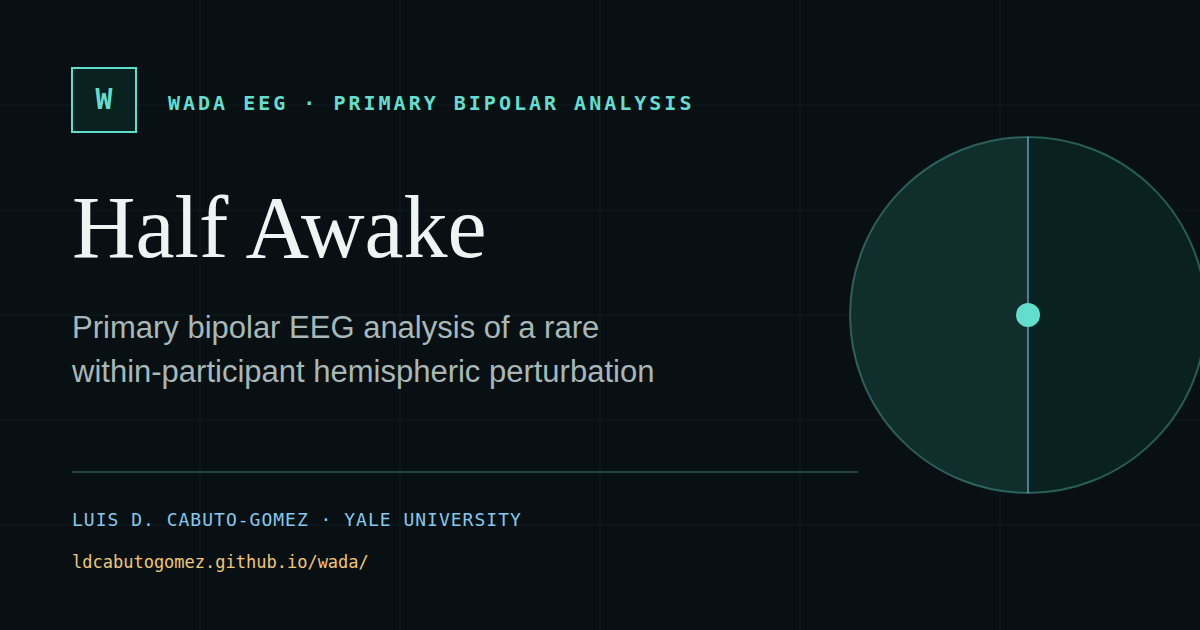
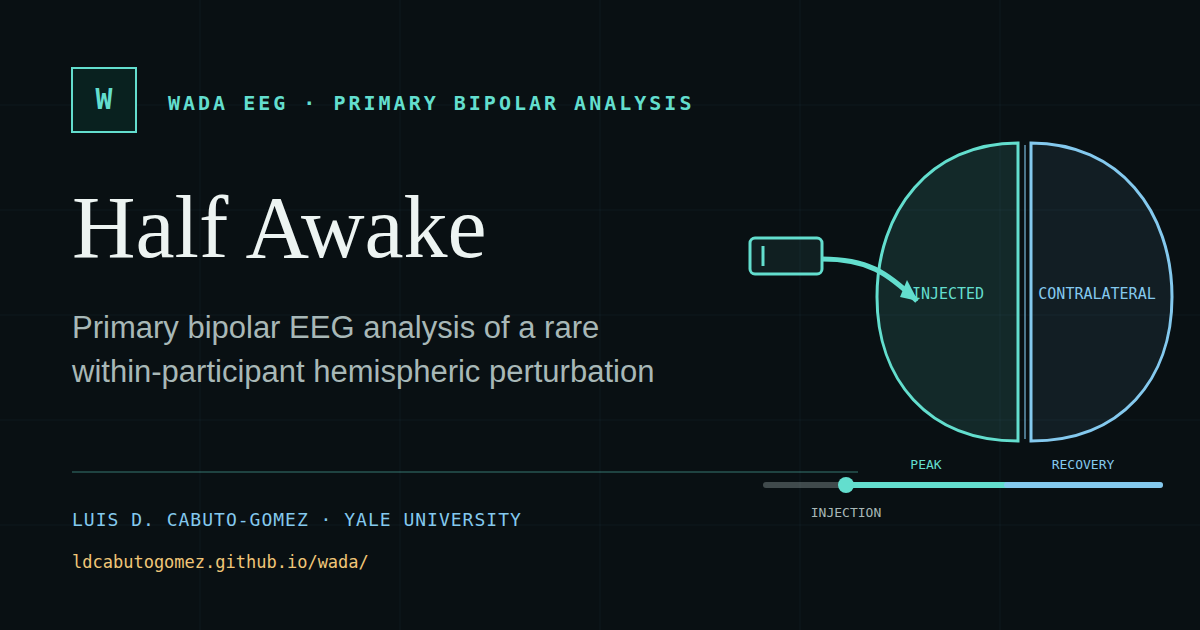
feat(wada): add accessible design schematic

diff --git a/wada/index.html b/wada/index.html
@@ -111,10 +111,58 @@
         <div class="schematic-shell" aria-labelledby="schematic-title">
           <p class="card-kicker">Study design</p>
           <h2 id="schematic-title">One injection, two simultaneous signals</h2>
-          <div class="schematic-stage-placeholder" role="img" aria-label="Design schematic pending Stage 4">
-            <span>Design schematic</span>
-            <small>Injection · injected hemisphere · contralateral hemisphere · peak · recovery</small>
-          </div>
+          <figure class="design-schematic-figure">
+            <svg class="design-schematic" viewBox="0 0 720 420" role="img" aria-labelledby="design-schematic-title design-schematic-description">
+              <title id="design-schematic-title">Within-participant Wada EEG design</title>
+              <desc id="design-schematic-description">A carotid injection points toward one injected hemisphere while the contralateral hemisphere is recorded simultaneously. A qualitative timeline marks baseline, injection, peak, and recovery windows.</desc>
+              <defs>
+                <marker id="schematic-arrow" viewBox="0 0 10 10" refX="8" refY="5" markerWidth="8" markerHeight="8" orient="auto-start-reverse">
+                  <path d="M0 0l10 5-10 5z" class="schematic-arrowhead"/>
+                </marker>
+              </defs>
+
+              <rect class="schematic-canvas" x="1" y="1" width="718" height="418" rx="20"/>
+
+              <g aria-hidden="true">
+                <g class="schematic-syringe" transform="translate(54 92) rotate(-8)">
+                  <rect x="0" y="0" width="84" height="38" rx="6"/>
+                  <line x1="18" y1="8" x2="18" y2="30"/>
+                  <line x1="84" y1="19" x2="126" y2="19"/>
+                  <line x1="-18" y1="19" x2="0" y2="19"/>
+                  <line x1="-18" y1="5" x2="-18" y2="33"/>
+                </g>
+                <path class="schematic-injection-line" d="M176 112C225 116 245 137 278 174" marker-end="url(#schematic-arrow)"/>
+
+                <path class="schematic-vessel" d="M317 238c-10-40-7-78 7-112M317 238c25-28 42-63 50-104M317 238c-35-24-58-56-70-96"/>
+                <circle class="schematic-injection-point" cx="317" cy="238" r="8"/>
+
+                <path class="schematic-hemisphere schematic-hemisphere-injected" d="M354 51c-77 0-124 61-124 139 0 72 44 128 124 128z"/>
+                <path class="schematic-hemisphere schematic-hemisphere-contralateral" d="M366 51c77 0 124 61 124 139 0 72-44 128-124 128z"/>
+                <path class="schematic-midline" d="M360 53v263"/>
+              </g>
+
+              <text class="schematic-label schematic-label-injected" x="292" y="176" text-anchor="middle">Injected</text>
+              <text class="schematic-label schematic-label-injected" x="292" y="201" text-anchor="middle">hemisphere</text>
+              <text class="schematic-label" x="428" y="176" text-anchor="middle">Contralateral</text>
+              <text class="schematic-label" x="428" y="201" text-anchor="middle">hemisphere</text>
+              <text class="schematic-kicker" x="56" y="62">CAROTID INJECTION</text>
+              <text class="schematic-kicker" x="360" y="36" text-anchor="middle">SIMULTANEOUS EEG</text>
+
+              <g class="schematic-timeline" aria-hidden="true">
+                <line class="schematic-timeline-base" x1="64" y1="359" x2="656" y2="359"/>
+                <line class="schematic-window-baseline" x1="64" y1="359" x2="226" y2="359"/>
+                <line class="schematic-window-peak" x1="226" y1="359" x2="432" y2="359"/>
+                <line class="schematic-window-recovery" x1="432" y1="359" x2="656" y2="359"/>
+                <circle class="schematic-injection-point" cx="226" cy="359" r="8"/>
+                <line class="schematic-tick" x1="226" y1="339" x2="226" y2="379"/>
+              </g>
+              <text class="schematic-timeline-label" x="64" y="397">Baseline</text>
+              <text class="schematic-timeline-label" x="226" y="329" text-anchor="middle">Injection</text>
+              <text class="schematic-timeline-label schematic-label-injected" x="329" y="397" text-anchor="middle">Peak window</text>
+              <text class="schematic-timeline-label" x="544" y="397" text-anchor="middle">Recovery window</text>
+            </svg>
+            <figcaption>One hemisphere receives the injection; both hemispheres remain in the same recording and participant-level contrast.</figcaption>
+          </figure>
         </div>
       </div>
 

diff --git a/wada/index.template.html b/wada/index.template.html
@@ -87,10 +87,58 @@
         <div class="schematic-shell" aria-labelledby="schematic-title">
           <p class="card-kicker">Study design</p>
           <h2 id="schematic-title">One injection, two simultaneous signals</h2>
-          <div class="schematic-stage-placeholder" role="img" aria-label="Design schematic pending Stage 4">
-            <span>Design schematic</span>
-            <small>Injection · injected hemisphere · contralateral hemisphere · peak · recovery</small>
-          </div>
+          <figure class="design-schematic-figure">
+            <svg class="design-schematic" viewBox="0 0 720 420" role="img" aria-labelledby="design-schematic-title design-schematic-description">
+              <title id="design-schematic-title">Within-participant Wada EEG design</title>
+              <desc id="design-schematic-description">A carotid injection points toward one injected hemisphere while the contralateral hemisphere is recorded simultaneously. A qualitative timeline marks baseline, injection, peak, and recovery windows.</desc>
+              <defs>
+                <marker id="schematic-arrow" viewBox="0 0 10 10" refX="8" refY="5" markerWidth="8" markerHeight="8" orient="auto-start-reverse">
+                  <path d="M0 0l10 5-10 5z" class="schematic-arrowhead"/>
+                </marker>
+              </defs>
+
+              <rect class="schematic-canvas" x="1" y="1" width="718" height="418" rx="20"/>
+
+              <g aria-hidden="true">
+                <g class="schematic-syringe" transform="translate(54 92) rotate(-8)">
+                  <rect x="0" y="0" width="84" height="38" rx="6"/>
+                  <line x1="18" y1="8" x2="18" y2="30"/>
+                  <line x1="84" y1="19" x2="126" y2="19"/>
+                  <line x1="-18" y1="19" x2="0" y2="19"/>
+                  <line x1="-18" y1="5" x2="-18" y2="33"/>
+                </g>
+                <path class="schematic-injection-line" d="M176 112C225 116 245 137 278 174" marker-end="url(#schematic-arrow)"/>
+
+                <path class="schematic-vessel" d="M317 238c-10-40-7-78 7-112M317 238c25-28 42-63 50-104M317 238c-35-24-58-56-70-96"/>
+                <circle class="schematic-injection-point" cx="317" cy="238" r="8"/>
+
+                <path class="schematic-hemisphere schematic-hemisphere-injected" d="M354 51c-77 0-124 61-124 139 0 72 44 128 124 128z"/>
+                <path class="schematic-hemisphere schematic-hemisphere-contralateral" d="M366 51c77 0 124 61 124 139 0 72-44 128-124 128z"/>
+                <path class="schematic-midline" d="M360 53v263"/>
+              </g>
+
+              <text class="schematic-label schematic-label-injected" x="292" y="176" text-anchor="middle">Injected</text>
+              <text class="schematic-label schematic-label-injected" x="292" y="201" text-anchor="middle">hemisphere</text>
+              <text class="schematic-label" x="428" y="176" text-anchor="middle">Contralateral</text>
+              <text class="schematic-label" x="428" y="201" text-anchor="middle">hemisphere</text>
+              <text class="schematic-kicker" x="56" y="62">CAROTID INJECTION</text>
+              <text class="schematic-kicker" x="360" y="36" text-anchor="middle">SIMULTANEOUS EEG</text>
+
+              <g class="schematic-timeline" aria-hidden="true">
+                <line class="schematic-timeline-base" x1="64" y1="359" x2="656" y2="359"/>
+                <line class="schematic-window-baseline" x1="64" y1="359" x2="226" y2="359"/>
+                <line class="schematic-window-peak" x1="226" y1="359" x2="432" y2="359"/>
+                <line class="schematic-window-recovery" x1="432" y1="359" x2="656" y2="359"/>
+                <circle class="schematic-injection-point" cx="226" cy="359" r="8"/>
+                <line class="schematic-tick" x1="226" y1="339" x2="226" y2="379"/>
+              </g>
+              <text class="schematic-timeline-label" x="64" y="397">Baseline</text>
+              <text class="schematic-timeline-label" x="226" y="329" text-anchor="middle">Injection</text>
+              <text class="schematic-timeline-label schematic-label-injected" x="329" y="397" text-anchor="middle">Peak window</text>
+              <text class="schematic-timeline-label" x="544" y="397" text-anchor="middle">Recovery window</text>
+            </svg>
+            <figcaption>One hemisphere receives the injection; both hemispheres remain in the same recording and participant-level contrast.</figcaption>
+          </figure>
         </div>
       </div>
 

diff --git a/wada/wada.css b/wada/wada.css
@@ -69,23 +69,132 @@
   font-size: clamp(1.5rem, 4vw, 2.2rem);
 }
 
-.schematic-stage-placeholder {
-  display: grid;
-  min-height: 14rem;
-  place-content: center;
-  gap: 0.55rem;
-  padding: 1rem;
-  border: 1px dashed var(--border-blue);
-  color: var(--blue);
-  background: rgba(7, 13, 16, 0.45);
-  font-family: var(--mono);
-  text-align: center;
+.design-schematic-figure {
+  --schematic-canvas: #071013;
+  --schematic-text: #edf4f2;
+  --schematic-muted: #a8b8b7;
+  --schematic-injected: #63dece;
+  --schematic-contralateral: #84c9ee;
+  --schematic-line: rgba(237, 244, 242, 0.36);
 }
 
-.schematic-stage-placeholder small {
-  max-width: 30rem;
+.design-schematic {
+  display: block;
+  width: 100%;
+  height: auto;
+  color: var(--schematic-text);
+}
+
+.schematic-canvas {
+  fill: var(--schematic-canvas);
+  stroke: var(--schematic-line);
+}
+
+.schematic-syringe {
+  fill: color-mix(in srgb, var(--schematic-injected) 14%, transparent);
+  stroke: var(--schematic-injected);
+  stroke-width: 3;
+}
+
+.schematic-injection-line,
+.schematic-vessel,
+.schematic-midline,
+.schematic-tick {
+  fill: none;
+  stroke: var(--schematic-line);
+  stroke-linecap: round;
+  stroke-linejoin: round;
+  stroke-width: 3;
+}
+
+.schematic-injection-line {
+  stroke: var(--schematic-injected);
+  stroke-width: 4;
+}
+
+.schematic-arrowhead,
+.schematic-injection-point {
+  fill: var(--schematic-injected);
+}
+
+.schematic-hemisphere {
+  stroke-width: 3;
+}
+
+.schematic-hemisphere-injected {
+  fill: color-mix(in srgb, var(--schematic-injected) 18%, var(--schematic-canvas));
+  stroke: var(--schematic-injected);
+}
+
+.schematic-hemisphere-contralateral {
+  fill: color-mix(in srgb, var(--schematic-contralateral) 13%, var(--schematic-canvas));
+  stroke: var(--schematic-contralateral);
+}
+
+.schematic-label,
+.schematic-kicker,
+.schematic-timeline-label {
+  fill: var(--schematic-text);
+  font-family: var(--mono);
+}
+
+.schematic-label {
+  font-size: 18px;
+  font-weight: 700;
+}
+
+.schematic-label-injected {
+  fill: var(--schematic-injected);
+}
+
+.schematic-kicker {
+  fill: var(--schematic-muted);
+  font-size: 15px;
+  font-weight: 700;
+  letter-spacing: 1.5px;
+}
+
+.schematic-timeline-base,
+.schematic-window-baseline,
+.schematic-window-peak,
+.schematic-window-recovery {
+  stroke-linecap: round;
+  stroke-width: 8;
+}
+
+.schematic-timeline-base,
+.schematic-window-baseline {
+  stroke: var(--schematic-line);
+}
+
+.schematic-window-peak {
+  stroke: var(--schematic-injected);
+}
+
+.schematic-window-recovery {
+  stroke: var(--schematic-contralateral);
+}
+
+.schematic-timeline-label {
+  fill: var(--schematic-muted);
+  font-size: 16px;
+}
+
+.design-schematic-figure figcaption {
+  margin-top: 0.8rem;
   color: var(--muted);
-  line-height: 1.5;
+  font-size: 0.85rem;
+}
+
+@media (prefers-color-scheme: light) {
+  .design-schematic-figure {
+    --schematic-canvas: #f4f8f7;
+    --schematic-text: #102126;
+    --schematic-muted: #40585c;
+    --schematic-injected: #087f75;
+    --schematic-contralateral: #236f99;
+    --schematic-line: rgba(16, 33, 38, 0.34);
+  }
 }
 
 .wada-hero-copy {
